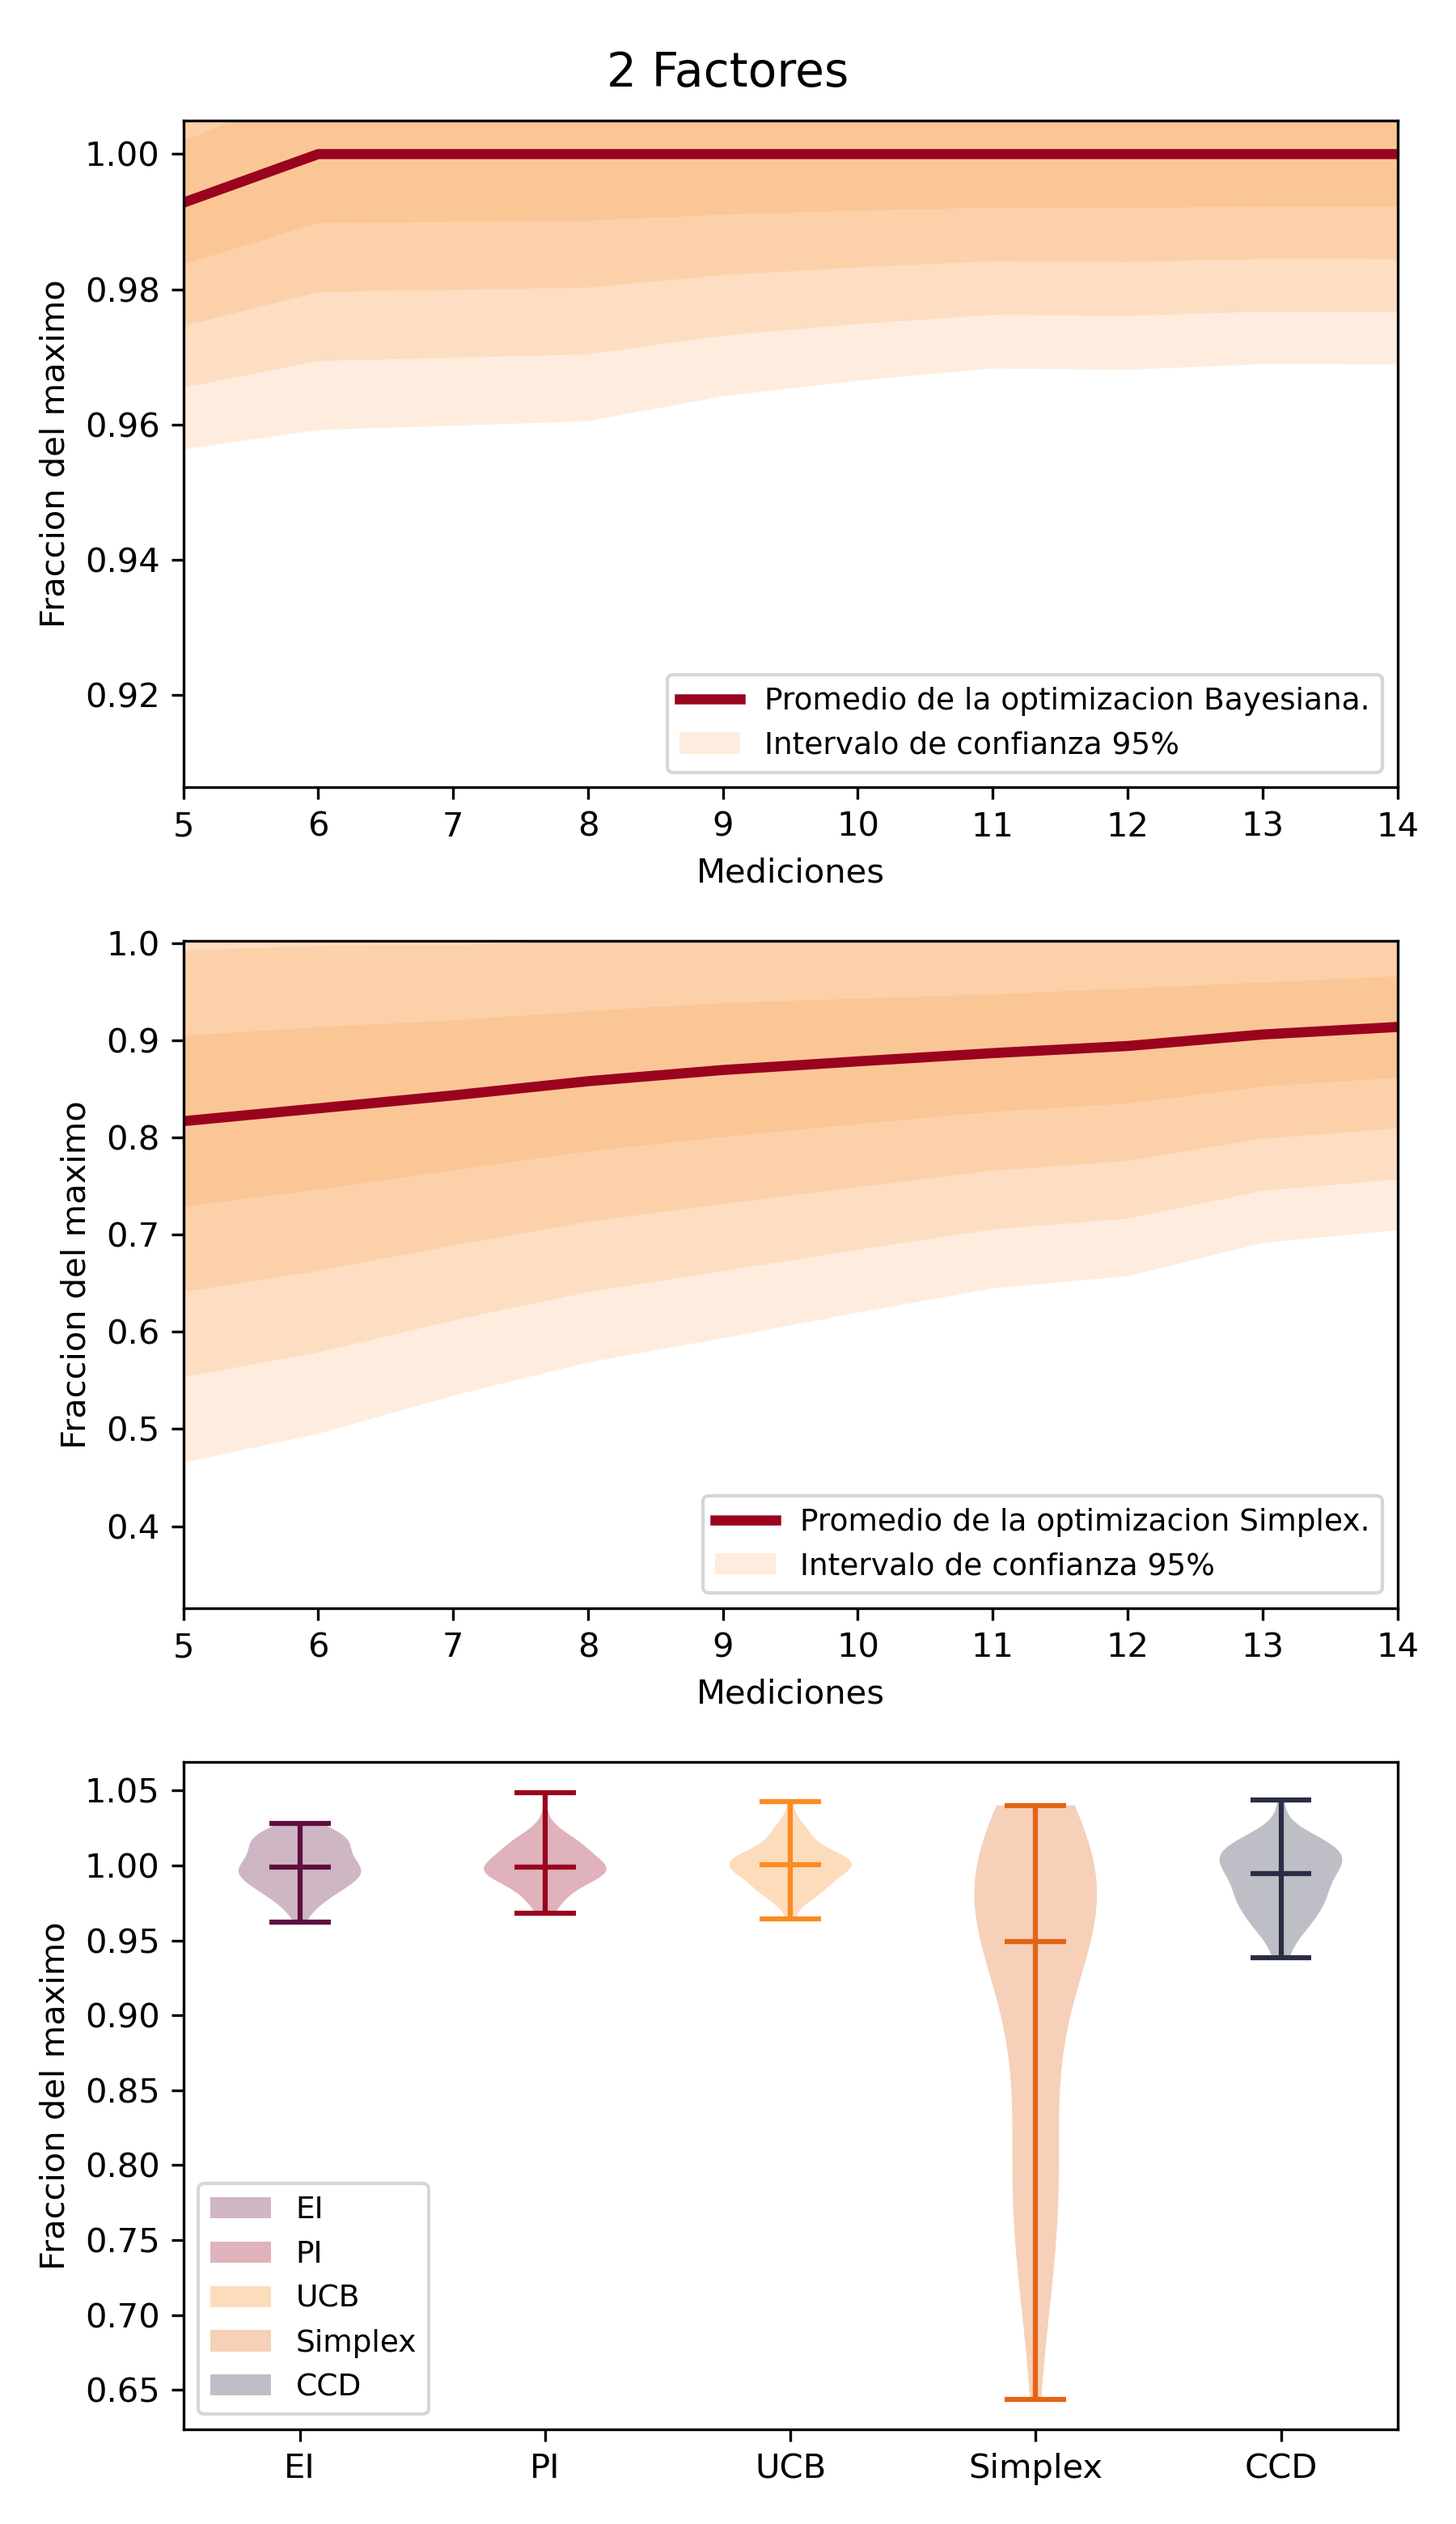
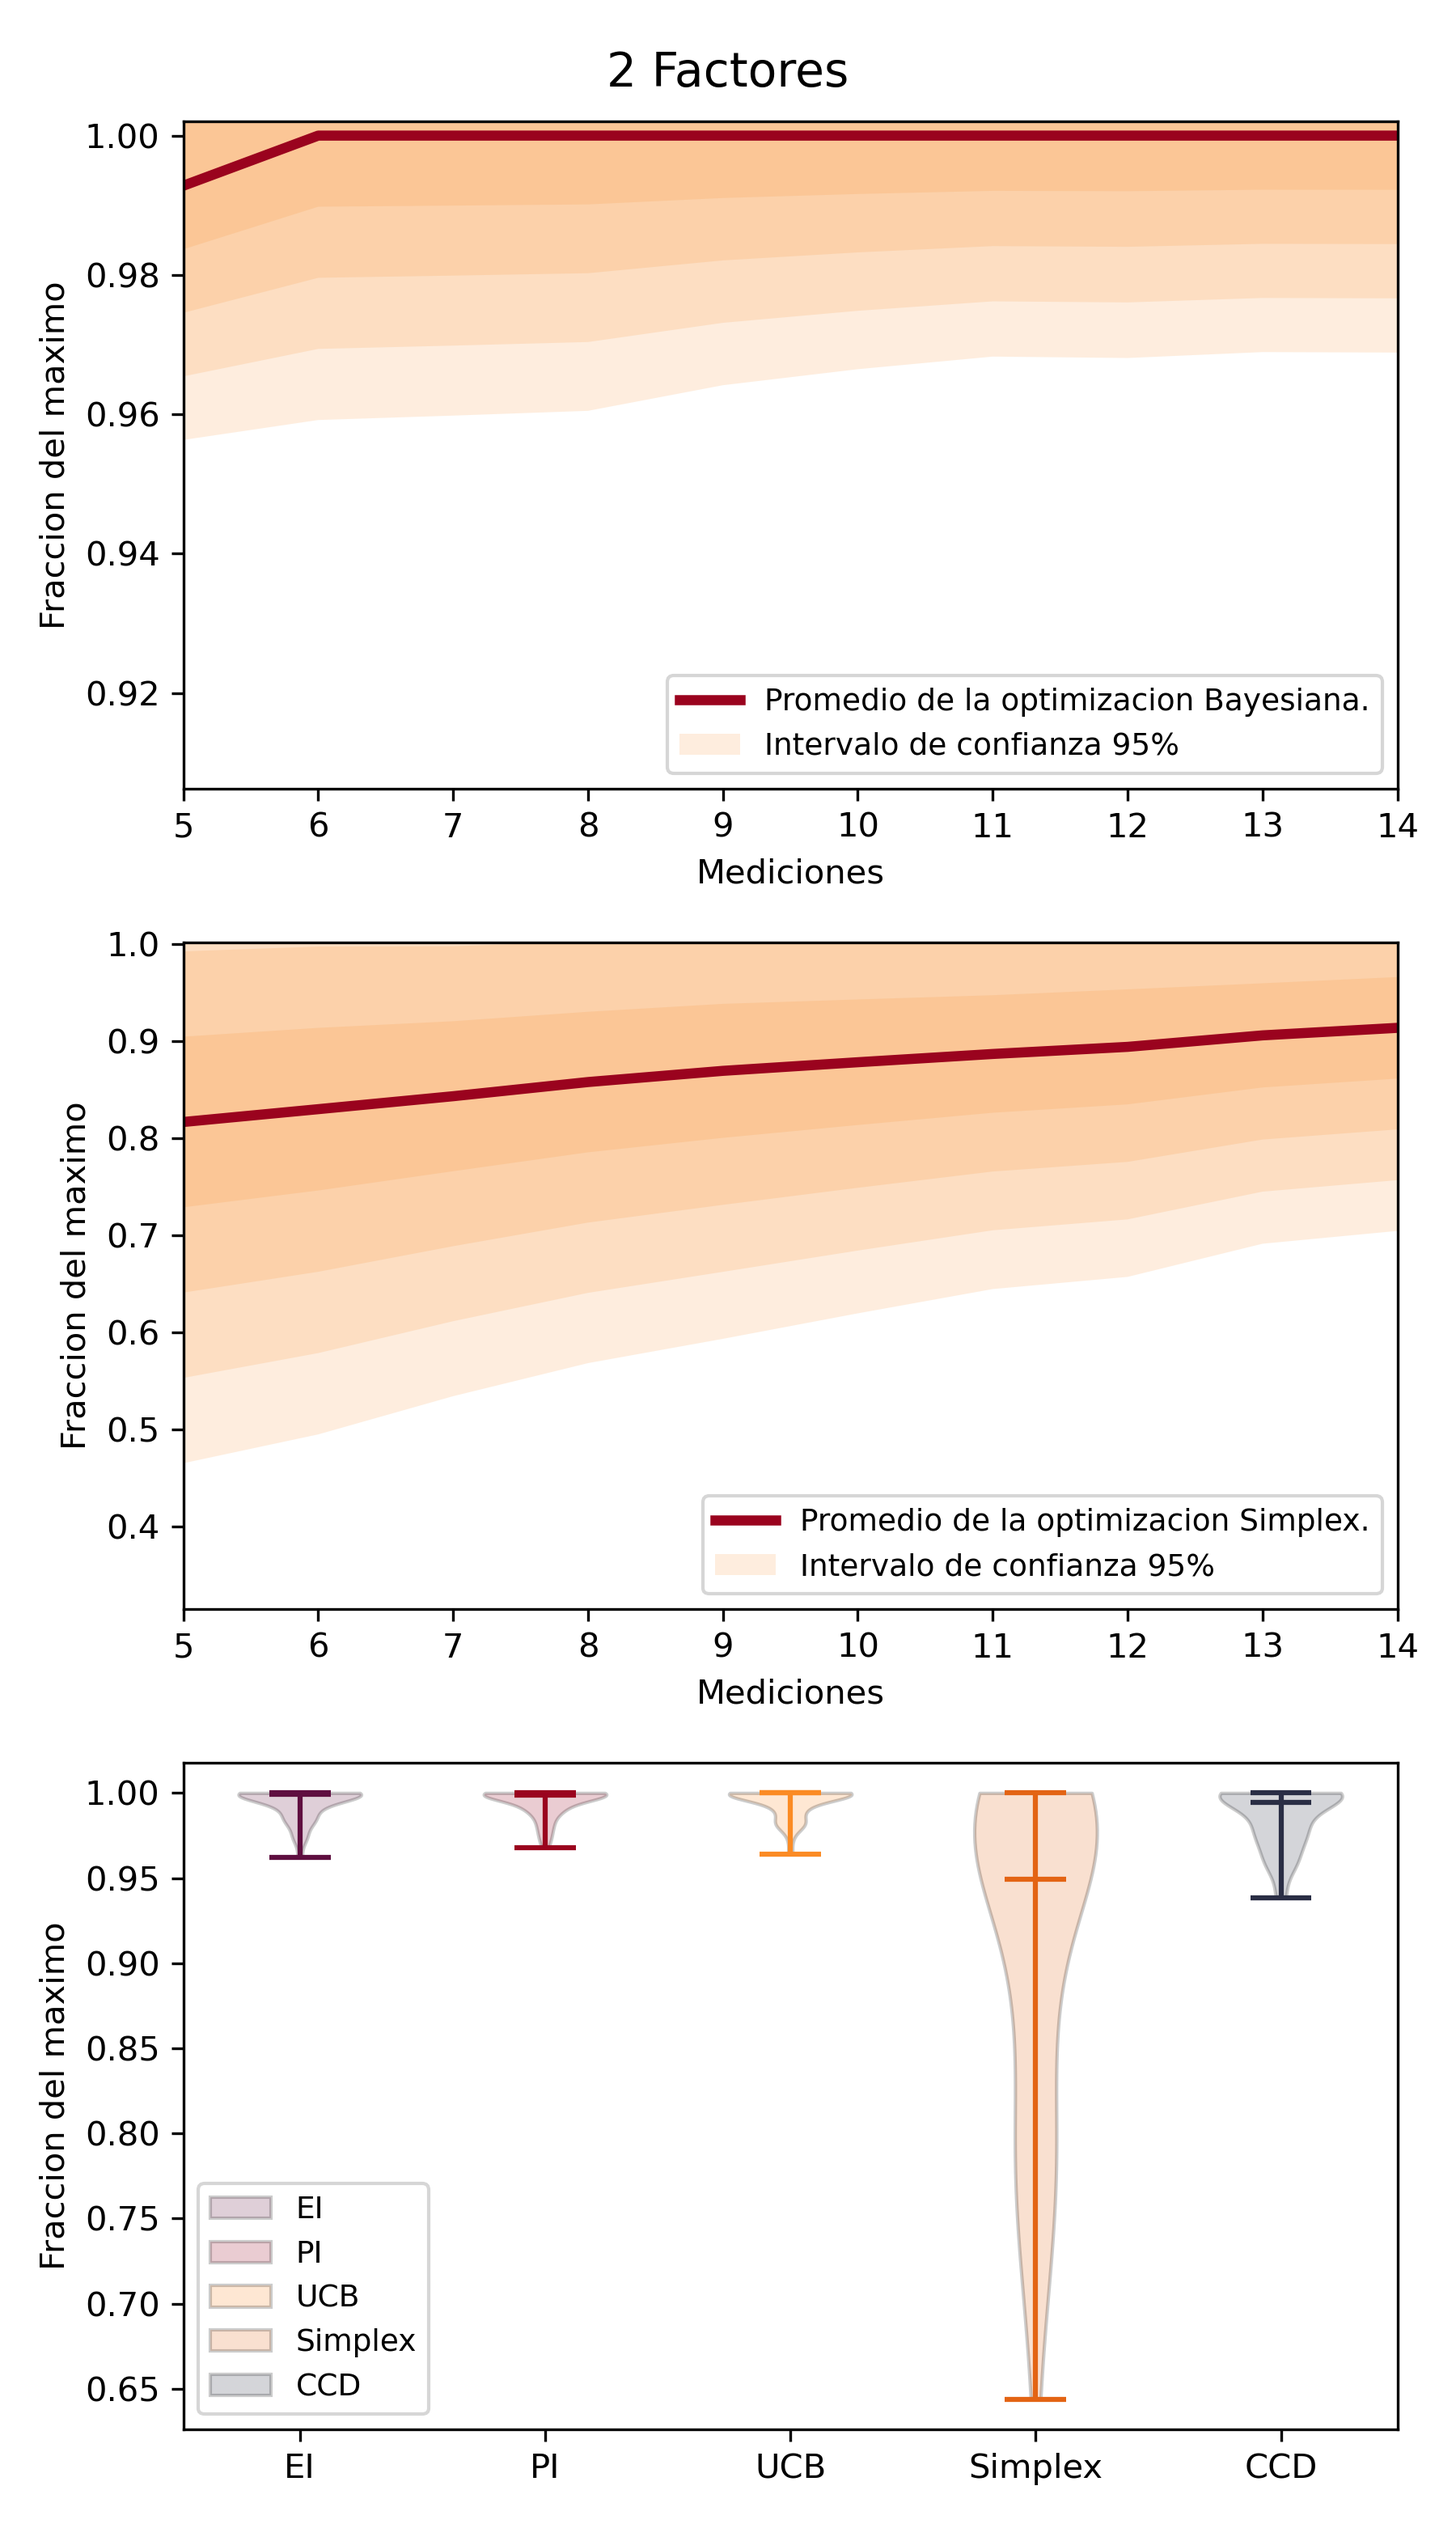
asdasd

diff --git a/damian/comparacion_modelos_agus.py b/damian/comparacion_modelos_agus.py
@@ -1,0 +1,131 @@
+import numpy as np
+import pandas as pd
+from bayopt import BayOptRBF
+import itertools
+
+# X = [Independiente,	pH,	Carga,	Conc,	pH*carga,	pH*Conc,	Carga*Conc,	pH^2,	Carga^2,	Conc^2]
+
+mn = np.array(
+    [
+        31448870289,
+        -554525034.7,
+        -14265048609,
+        -1935511006,
+        156735633,
+        -20701752.16,
+        116064658.9,
+        293386201.6,
+        1780377838,
+        237933042.5,
+    ]
+)
+
+sb = np.array(
+    [
+        80734.67046,
+        370.8011381,
+        -16258.72842,
+        5740.418968,
+        137.9395184,
+        -293.5922591,
+        -8.785053956,
+        71.05908436,
+        1509.728314,
+        -214.2989442,
+    ]
+)
+
+cd = np.array(
+    [
+        75814864409,
+        9577014119,
+        -39742172161,
+        -7293630169,
+        196753959.9,
+        -534409051.3,
+        731416776.9,
+        157535411.9,
+        4577912599,
+        638701385.6,
+    ]
+)
+
+pb = np.array(
+    [
+        456292.8511,
+        112339.4885,
+        -64596.93522,
+        51866.41538,
+        7300.303724,
+        -1713.886322,
+        407.9571991,
+        -9415.365197,
+        643.7838491,
+        -2283.865801,
+    ]
+)
+exp_mn = 1 / 1.78
+exp_sb = 1
+exp_cd = 1 / 2.02
+exp_pb = 1
+
+
+# X = [ph, carga, concentracion]
+def respuesta(X, coef_elemento, exponente):
+    X_poly = [
+        X[0],
+        X[1],
+        X[2],
+        X[0] * X[1],
+        X[0] * X[2],
+        X[1] * X[2],
+        X[0] ** 2,
+        X[1] ** 2,
+        X[2] ** 2,
+    ]
+    return (coef_elemento[0] + np.dot(X_poly, coef_elemento[1:])) ** exponente
+
+
+# test = [1, 1, 1]
+# print(respuesta(test, mn, exp_mn))
+
+# VARS
+n_dim = 3
+# ph-carga-concentracion
+bounds_min = [3, 1, 1]
+bounds_max = [9, 5, 10]
+bounds = np.array([*zip(bounds_min, bounds_max)])
+# datos iniciales
+x_data = np.array(list(itertools.product(*zip(bounds_min, bounds_max))))
+x_data = np.concatenate((x_data, np.zeros(shape=(1, n_dim))))
+y_data = np.array([respuesta(x, sb, exp_sb) for x in x_data])
+# modelo
+model = BayOptRBF(x_data, y_data)
+# optimizacion
+
+pct_max = []
+tested_values = []
+# cd, mn, pb, sb
+x_max_agustin = [[9, 1, 1], [8.8, 1, 10], [5.5, 1, 10], [3.5, 1, 10]]
+y_max_agustin = [
+    respuesta(x, params, exp)
+    for x, params, exp in zip(
+        x_max_agustin, [cd, mn, pb, sb], [exp_cd, exp_mn, exp_pb, exp_sb]
+    )
+]
+
+for iteration in range(10):
+    x_next, acq_func_val = model.global_max(acq_fun="EI", bounds=bounds)
+    # valor de la funcion en el punto encontrado
+    # como la funcion esta normalizada entre 0 y 1, tmb es la fraccion del maximo.
+    y_next = respuesta(x_next, sb, exp_sb)
+    pct_max.append(y_next)
+    tested_values.append(x_next)
+    # agrego el nuevo punto a los datos para entrenar el modelo
+    x_data = np.concatenate((x_data, [x_next]))
+    y_data = np.concatenate((y_data, [y_next]))
+    # fiteo el model
+    model.fit(x_data, y_data)
+
+print(pct_max / y_max_agustin[3])
+print(tested_values)

diff --git a/damian/plot_ejemplos.py b/damian/plot_ejemplos.py
@@ -1,0 +1,78 @@
+import matplotlib.pyplot as plt
+import numpy as np
+import pandas as pd
+import seaborn as sns
+
+
+def UCB(x, gp, kappa=1.96):
+    # Calcular media y desvio para el valor de prueba "x"
+    mean, std = gp.predict([x], return_std=True)
+
+    # calcular y devolver la probabilidad de mejora
+    result = mean + kappa * std
+    return result
+
+
+X = np.linspace(start=0, stop=10, num=1_000).reshape(-1, 1)
+y = np.squeeze(X * np.sin(X))
+
+rng = np.random.RandomState(1)
+# training_indices = rng.choice(np.arange(y.size), size=6, replace=False)
+training_indices = [20, 920, 606]
+training_indices = [20, 920, 606, 999]
+training_indices = [20, 920, 606, 999, 800]
+training_indices = [20, 920, 606, 999, 800, 275]
+X_train, y_train = X[training_indices], y[training_indices]
+
+from sklearn.gaussian_process import GaussianProcessRegressor
+from sklearn.gaussian_process.kernels import RBF
+
+kernel = 1 * RBF(length_scale=1.0, length_scale_bounds=(1, 1e2))
+gp = GaussianProcessRegressor(kernel=kernel, n_restarts_optimizer=9)
+gp.fit(X_train, y_train)
+gp.kernel_
+
+mean_prediction, std_prediction = gp.predict(X, return_std=True)
+# creo plot
+fig, axes = plt.subplots(2, 1, gridspec_kw={"height_ratios": [3, 1]}, figsize=(6, 5))
+# subplot0
+axes[0].plot(X, y, label=r"$f(x) = x \sin(x)$", linestyle="dashed", c="#2A2E45")
+axes[0].scatter(X_train, y_train, label="Observaciones", c="#9A031E")
+axes[0].plot(X, mean_prediction, label="Predicción", c="#9A031E")
+axes[0].fill_between(
+    X.ravel(),
+    mean_prediction - 1.96 * std_prediction,
+    mean_prediction + 1.96 * std_prediction,
+    alpha=0.5,
+    label=r"Intervalo de confianza 95% ",
+    fc="#FB8B24",
+)
+axes[0].legend(loc="upper left")
+axes[0].set_ylabel("$f(x)$")
+axes[0].set_ylim(bottom=-12, top=14)
+
+# subplot1
+y_ucb = np.array([UCB(x, gp) for x in X])
+axes[1].plot(X, y_ucb, c="#9A031E", label="Funcion de adquisición UCB")
+
+max_index = y_ucb.argmax()
+axes[1].vlines(X[max_index], y_ucb.min(), y_ucb.max(), linestyles="dotted", color="r")
+axes[1].scatter(
+    X[max_index],
+    y_ucb[max_index],
+    marker="*",
+    s=150,
+    c="#FB8B24",
+    edgecolors="#2A2E45",
+    label="Maximo de la funcion de adquisición",
+)
+
+# axes[1].legend(loc="lower left")
+axes[1].set_xlabel("$x$")
+axes[1].set_ylabel("$UCB(x)$")
+
+
+# fig.suptitle("")
+plt.tight_layout()
+plt.savefig(f"bayopt_example{len(training_indices)}", dpi=300)
+plt.show()

diff --git a/damian/plot.py b/damian/plot.py
@@ -73,6 +73,11 @@ if n_dim < 5:
     data_violin.bayopt_best_ucb = (
         data_violin.bayopt_best_ucb + 1 - data_violin.bayopt_best_ucb.mean()
     )
+data_violin.bayopt_best_ei[data_violin.bayopt_best_ei > 1] = 1
+data_violin.bayopt_best_pi[data_violin.bayopt_best_pi > 1] = 1
+data_violin.bayopt_best_ucb[data_violin.bayopt_best_ucb > 1] = 1
+data_violin.simplex_best[data_violin.simplex_best > 1] = 1
+data_violin.ccd_best[data_violin.ccd_best > 1] = 1
 
 
 ##creo subplots
@@ -122,7 +127,7 @@ axes[0].fill_between(
 )
 # limites
 axes[0].set_xlim(data.num.min(), data.num.max())
-axes[0].set_ylim((data.bayopt_mean_ei - 2 * data.bayopt_sd_ei).min() - 0.05, 1.005)
+axes[0].set_ylim((data.bayopt_mean_ei - 2 * data.bayopt_sd_ei).min() - 0.05, 1.002)
 axes[0].legend(loc="lower right", prop={"size": 9})
 axes[0].set_ylabel("Fraccion del maximo")
 axes[0].set_xlabel("Mediciones")
@@ -193,13 +198,16 @@ v_plot = axes[2].violinplot(
 )
 # cambio los colores de los violines
 colors = ["#5F0F40", "#9A031E", "#FB8B24", "#E36414", "#2A2E45"]
+
 for pc, color in zip(v_plot["bodies"], colors):
     pc.set_facecolor(color)
 v_plot["cmedians"].set_color(colors)
 v_plot["cbars"].set_color(colors)
 v_plot["cmins"].set_color(colors)
 v_plot["cmaxes"].set_color(colors)
-
+for pc in v_plot["bodies"]:
+    pc.set_edgecolor("black")
+    pc.set_alpha(0.2)
 
 labels = ["EI", "PI", "UCB", "Simplex", "CCD"]
 axes[2].legend(labels=labels, loc="lower left", prop={"size": 9})
@@ -209,6 +217,6 @@ axes[2].set_xticklabels(["", "EI", "PI", "UCB", "Simplex", "CCD"])
 # titulo
 fig.suptitle(f"{n_dim} Factores", fontsize=14)
 fig.tight_layout(pad=1.1)
-# plt.show()
 
 plt.savefig(f"opt_fig_ndim_{n_dim}", dpi=300)
+plt.show()

diff --git a/damian/plot_comparacion_preconcentracion.py b/damian/plot_comparacion_preconcentracion.py
@@ -1,0 +1,44 @@
+import matplotlib.pyplot as plt
+import numpy as np
+import pandas as pd
+import seaborn as sns
+
+
+data = {
+    "Elemento": [
+        "Cd",
+        "Mn",
+        "Pb",
+        "Sb",
+        "Cd",
+        "Mn",
+        "Pb",
+        "Sb",
+    ],
+    "Metodo de optizacion": [
+        "CCD",
+        "CCD",
+        "CCD",
+        "CCD",
+        "BO",
+        "BO",
+        "BO",
+        "BO",
+    ],
+    "Numero de experimentos": [19, 19, 19, 19, 10, 12, 10, 11],
+}
+df = pd.DataFrame(data)
+
+sns.barplot(
+    data=df, x="Elemento", y="Numero de experimentos", hue="Metodo de optizacion"
+)
+
+
+# ticks
+yint = np.arange(0, 19, 2)
+plt.title("Economia de los metodos de optimizacion.")
+plt.legend(bbox_to_anchor=(1, -0.05), ncol=2, fancybox=True)
+plt.yticks(yint)
+plt.tight_layout()
+plt.savefig(f"bayopt_bar", dpi=300)
+plt.show()
